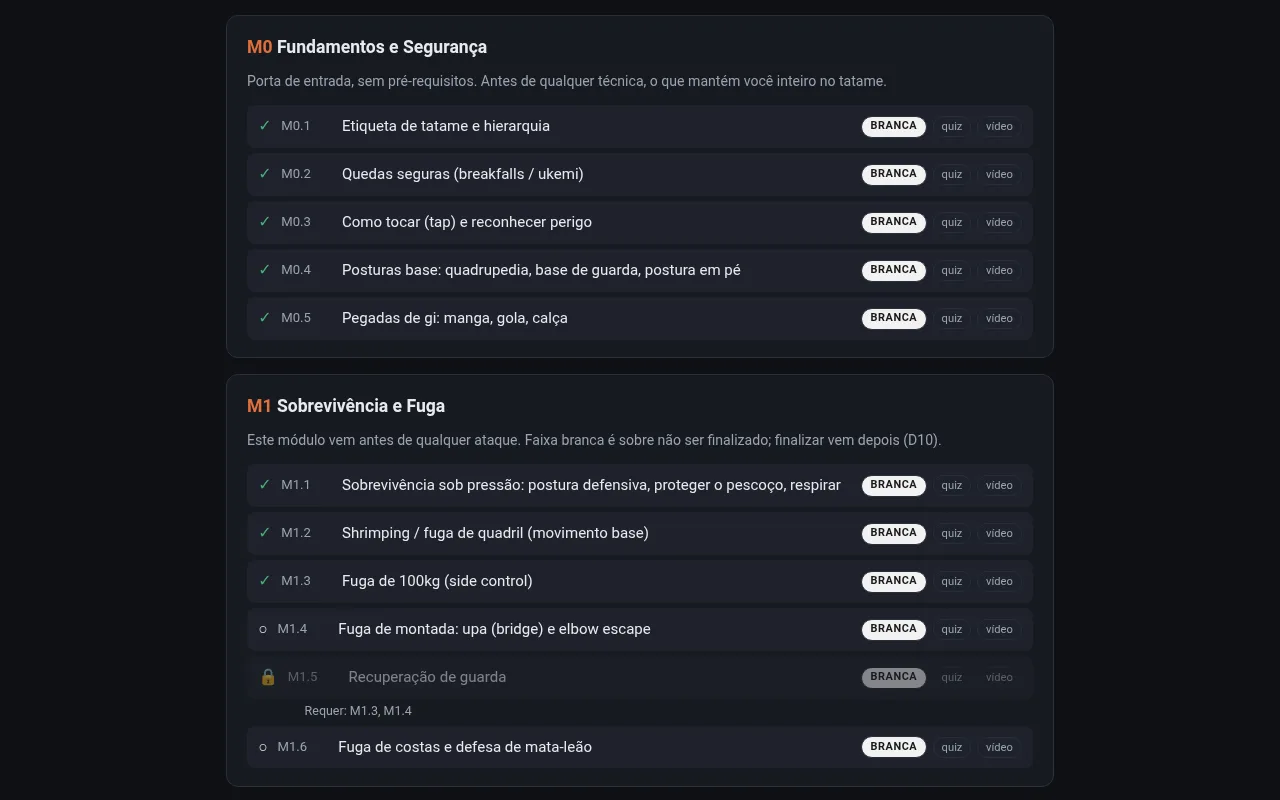
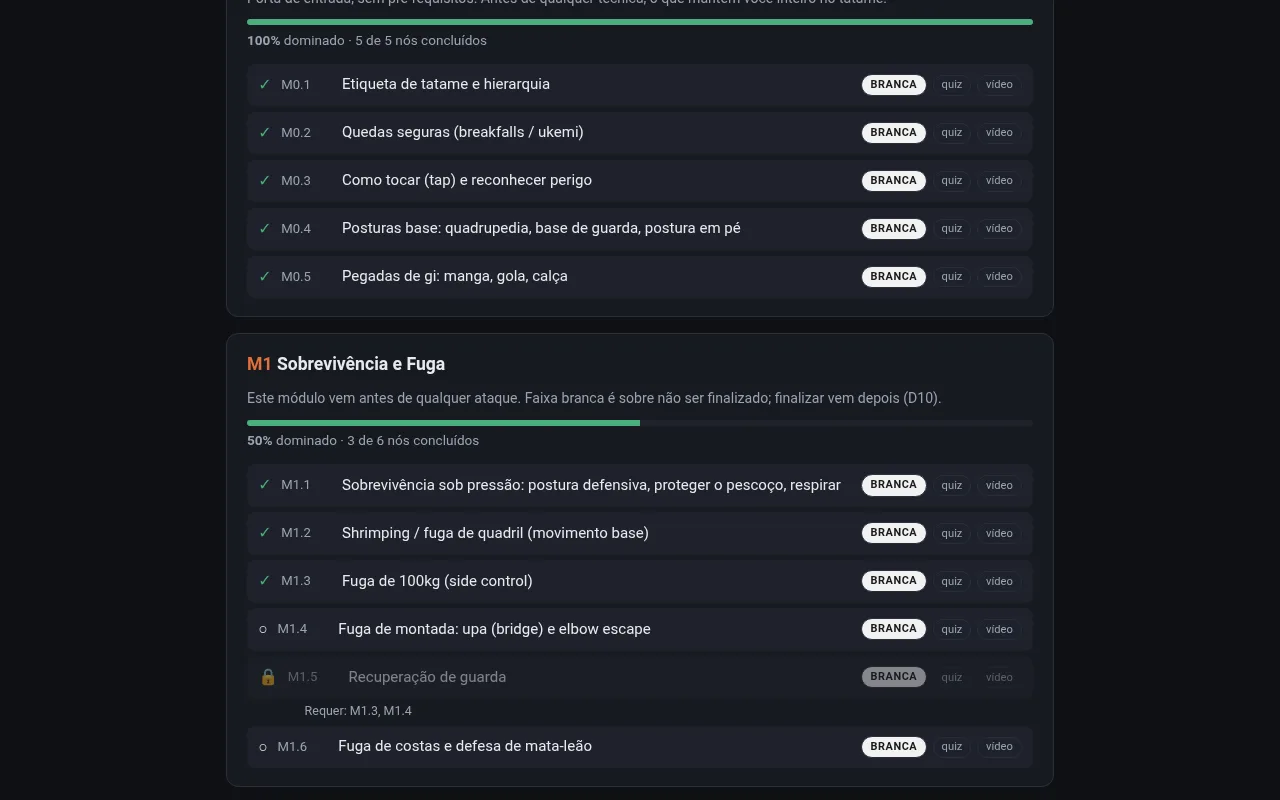
docs: recapturar prints da árvore e da tela inicial da onda 2
O botão "Revisar agora" (#47) aparece em hoje-desktop, e a barra de domínio
por módulo (#103) em arvore-desktop e arvore-mobile. Os demais prints não
mudaram de aparência e foram mantidos; o registro está em prints-historico.md.

Changed region(s): [[0.1875, 0.1562, 0.75, 0.5625], [0.1875, 0.0, 0.8125, 0.4375], [0.2812, 0.9062, 0.4688, 0.9375]]

diff --git a/docs/desenvolvimento/prints-historico.md b/docs/desenvolvimento/prints-historico.md
@@ -81,3 +81,18 @@ Registro do que cada recaptura mudou e por quê. O procedimento está em
 > celular a grade abria rolada no passado remoto — meio ano de células vazias — e a semana com
 > treino ficava fora da tela, à direita. O print saiu literalmente em branco. O conserto está no
 > componente (o invólucro abre rolado até o fim), e sem refazer o print ninguém teria olhado.
+
+> **A onda 2 (#47, #101, #103) mexeu em `/hoje` e na árvore — três arquivos recapturados.** A
+> sessão guiada (#47) pôs o botão *Revisar agora* no fim do cartão "Revise hoje", visível em
+> `hoje-desktop`; em `hoje-mobile` ele fica abaixo da dobra, e o arquivo foi **restaurado** pela
+> régua da #99. O domínio por módulo (#103) acrescentou barra e linha "N% dominado" a cada módulo,
+> e por isso `arvore-desktop` e `arvore-mobile` foram refeitos. O marco de streak (#101) não aparece:
+> a semeadura termina em 8 dias seguidos, fora da lista de marcos. `no-*`, `drill-*` e `diario-*`
+> saíram com bytes diferentes e foram restaurados — nada nessas telas mudou. O `og.jpg` saiu
+> idêntico: o celular do hero não alcança o botão novo.
+>
+> **A captura rodou contra o nginx do Compose (`--web` e `--api` em `:8081`)**, e não contra o Vite,
+> porque a 8080 da máquina estava ocupada. Para semear numa conta nova sem mexer no banco local, a
+> stack subiu como projeto separado (`docker compose -p fosprints`), com volume próprio descartado
+> depois. Sessão por `seed-dev-users.mjs` + `mint-dev-login.mjs`, confirmada com a senha — o
+> caminho de `prints-da-landing.md`; o portão nunca foi desligado.
